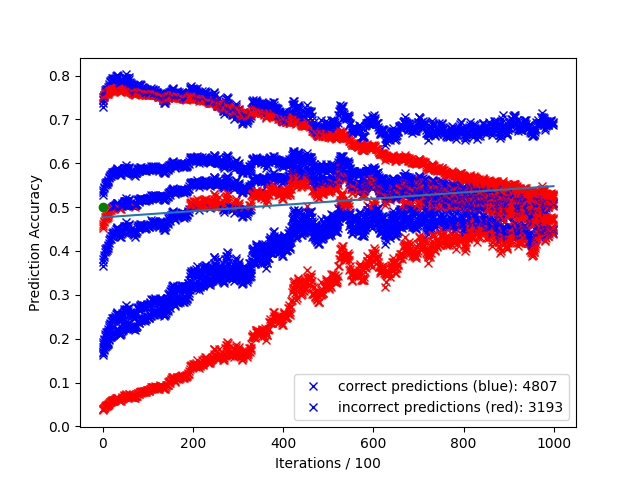
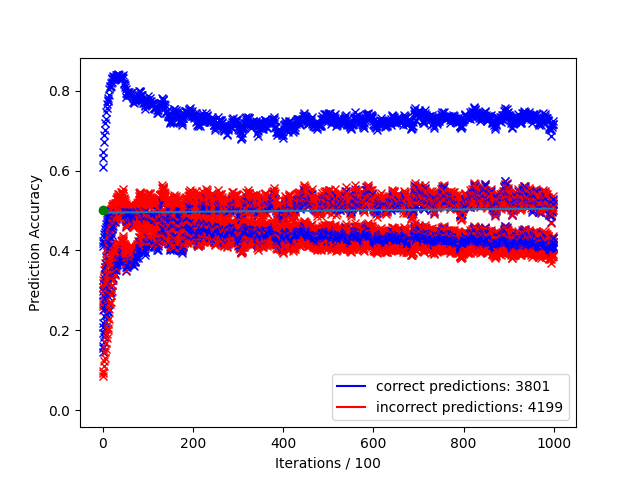
vibing a connection from site to code :P

diff --git a/Website.js b/Website.js
@@ -1,1 +1,34 @@
 window.resizeTo(800, 600);
+
+async function runNetwork() {
+    const button = document.getElementById('Network');
+    const originalText = button.textContent;
+    button.textContent = 'Running...';
+    button.disabled = true;
+    
+    try {
+        const response = await fetch('/api/run-network', {
+            method: 'POST',
+            headers: {
+                'Content-Type': 'application/json'
+            }
+        });
+        
+        const data = await response.json();
+        
+        if (data.success) {
+            alert('Network training completed successfully!');
+            // Refresh images
+            location.reload();
+        } else {
+            alert('Error: ' + data.message);
+            console.error(data.error);
+        }
+    } catch (error) {
+        alert('Failed to connect to server: ' + error.message);
+        console.error('Error:', error);
+    } finally {
+        button.textContent = originalText;
+        button.disabled = false;
+    }
+}

diff --git a/index.html b/index.html
@@ -10,11 +10,7 @@
         <h1>This page shows how this neural network works</h1>
         <p>Click the button and the network will show itself get more accurate (most of the time) at correctly deciding whether a vector is similar enough to a pre-decided vector..</p>
         <button onClick="runNetwork()" id="Network">Run Network</button>
-        <script>
-            function runNetwork() {
-                neuralNetwork();
-            }
-        </script>
+        <script src="Website.js"></script>
         <div class="image-container">
             <img src="Network/cumulative_error.png" alt="Network Visualization">
             <img src="Network/predicted.png" alt="Prediction Visualization">

diff --git a/app.py b/app.py
@@ -1,0 +1,47 @@
+from flask import Flask, jsonify, send_from_directory
+import subprocess
+import os
+
+app = Flask(__name__, static_folder='.', static_url_path='')
+
+@app.route('/')
+def serve_index():
+    return send_from_directory('.', 'index.html')
+
+@app.route('/api/run-network', methods=['POST'])
+def run_network():
+    try:
+        # Run the Network.py script
+        result = subprocess.run(
+            ['python', 'Network/Network.py'],
+            cwd=os.path.dirname(os.path.abspath(__file__)),
+            capture_output=True,
+            text=True,
+            timeout=300
+        )
+        
+        if result.returncode == 0:
+            return jsonify({
+                'success': True,
+                'message': 'Network training completed successfully',
+                'output': result.stdout
+            })
+        else:
+            return jsonify({
+                'success': False,
+                'message': 'Error running network',
+                'error': result.stderr
+            }), 500
+    except subprocess.TimeoutExpired:
+        return jsonify({
+            'success': False,
+            'message': 'Network training took too long and timed out'
+        }), 500
+    except Exception as e:
+        return jsonify({
+            'success': False,
+            'message': f'Error: {str(e)}'
+        }), 500
+
+if __name__ == '__main__':
+    app.run(debug=True, port=5000)

diff --git a/Network/Network.py b/Network/Network.py
@@ -42,6 +42,9 @@ class NeuralNetwork:
         self.weights -= derror_dweights * self.learning_rate
 
     def train(self, input_vectors, targets, iterations):
+        plt.plot(0, 0, color='blue')
+        plt.plot(0, 0, color='red')
+
         correct = 0
         incorrect = 0
 
@@ -98,7 +101,7 @@ class NeuralNetwork:
         plt.plot(fit_x, best_fit_y)
         plt.xlabel("Iterations / 100")
         plt.ylabel("Prediction Accuracy")
-        plt.legend(["correct predictions (blue): " + str(correct), "incorrect predictions (red): " + str(incorrect)])
+        plt.legend(["correct predictions: " + str(correct), "incorrect predictions: " + str(incorrect)])
         plt.plot(0, 0.5, "o", color='green', label='Decision Boundary')
         plt.savefig("Network/prediction_best_fit.png")
         plt.clf()
